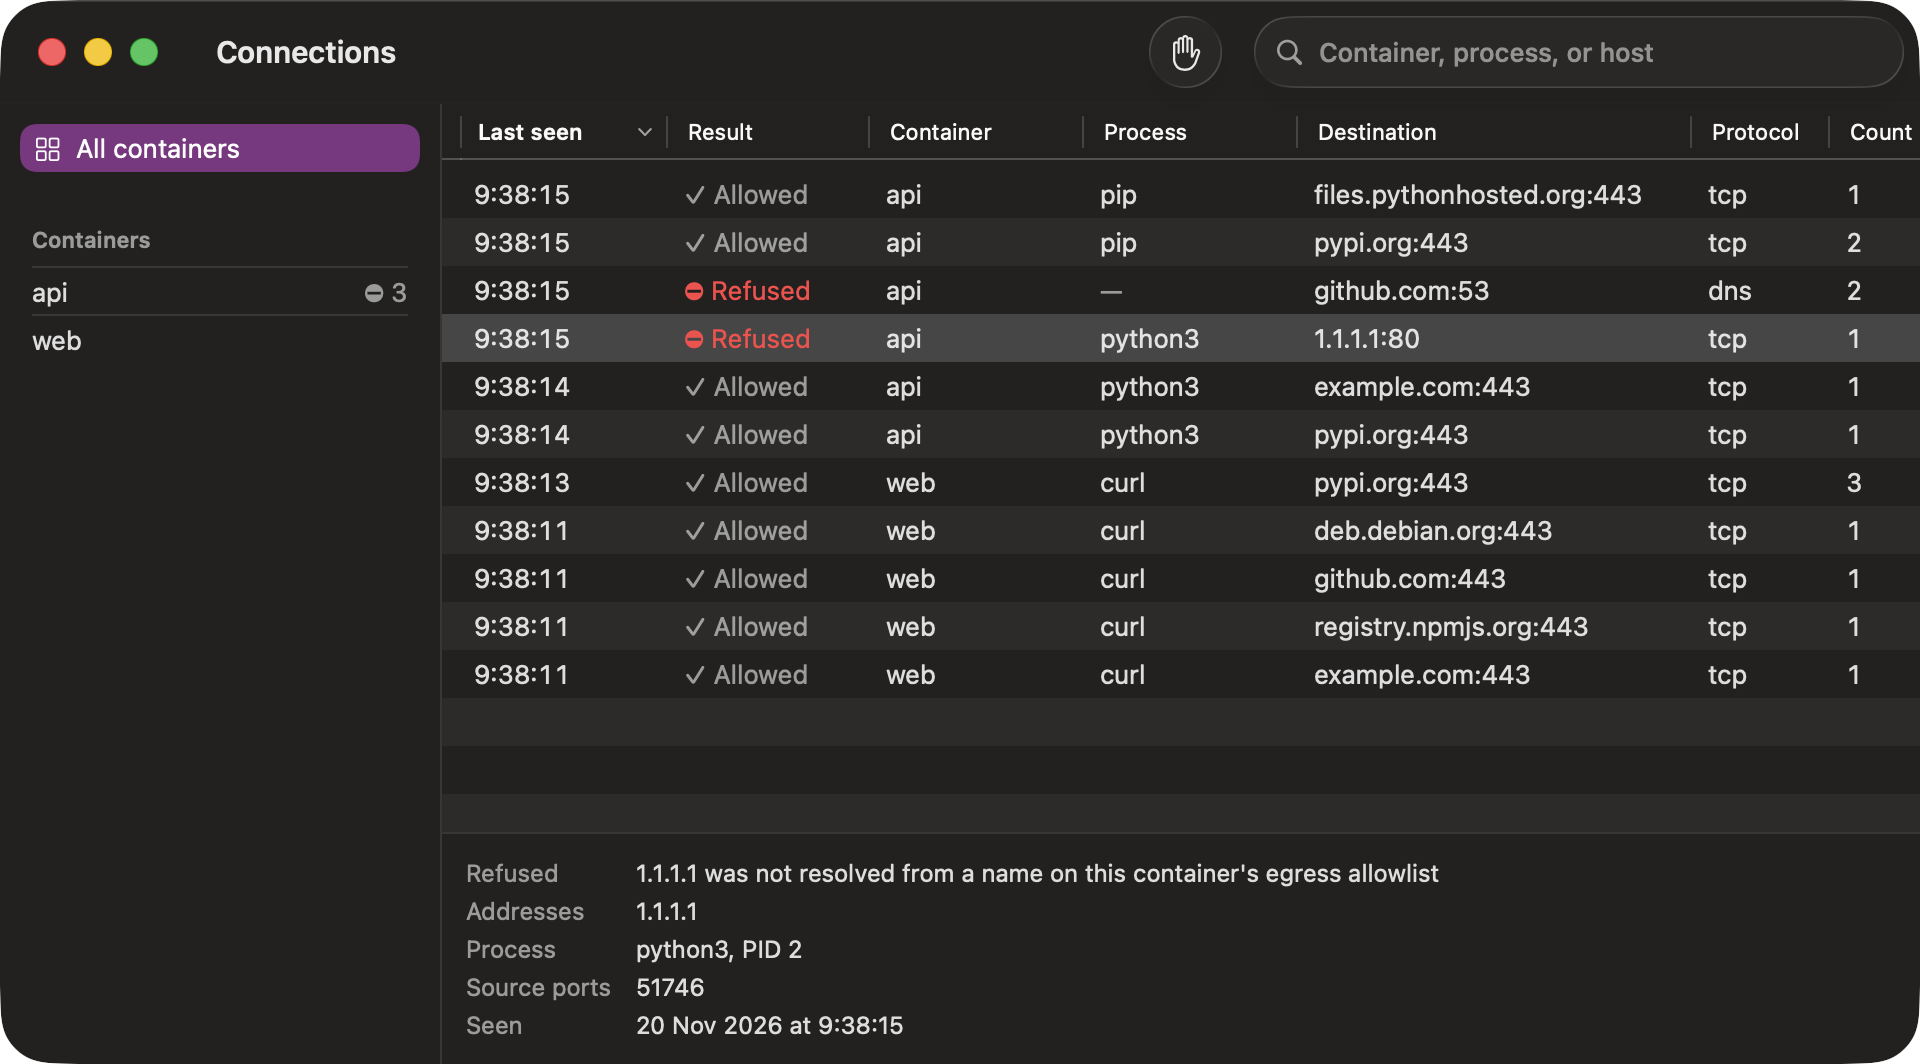
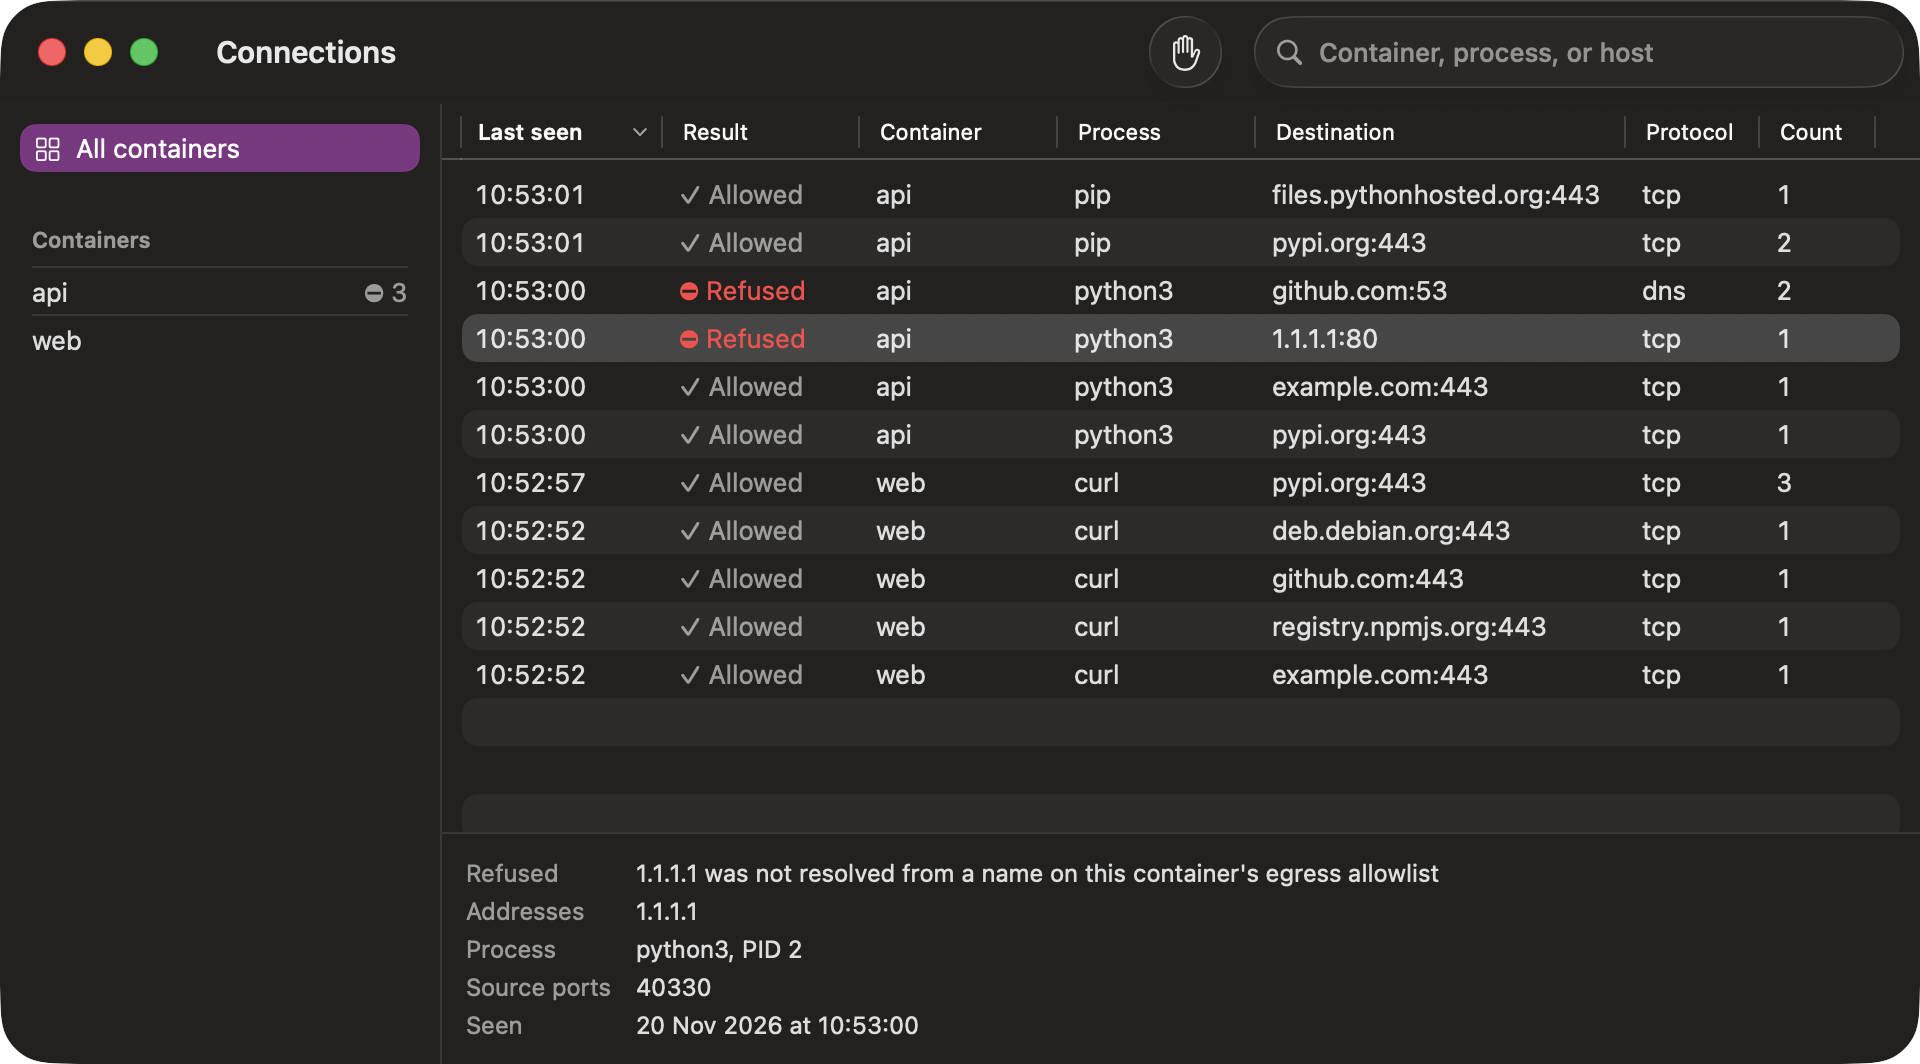
docs: installed throughput, connections with UDP processes on the site
Claude-Session: https://claude.ai/code/session_01GWEZ8e9k5t3ZLEPtFhvqLU

diff --git a/SPEC.md b/SPEC.md
@@ -308,7 +308,7 @@ Coverage:
 - D-53: Own init and boot trimming (2026-11-16). `vminitd` and `vmexec` are built by `scripts/build-init.sh` from the vendored apple/containerization 0.54.0 (`Vendor/containerization`, git subtree at baf212e) with Swift 6.3.3 (the latest of the line upstream builds with) and its static Linux SDK, pinned by digest and SHA-256, in a pratico VM; the image's tree matches upstream's (`/run`, `/var`, `/dev` are mount points on a read-only root: without them vminitd exits and the kernel panics). Reproducible: no build ID, and Swift's `.swift_modhash` section (per-module hashes that differ between builds of the same source, read only by debuggers and the backtracer; the binaries carry no debug info) is removed; two builds match and `vm/init/vminit.sha256` pins the manifest. The image is tagged by content (`dev.pratico/vminit:<version>-<digest>`, read by the daemon from the bundled layout), and the daemon rebuilds `initfs.ext4` when the reference differs from `initfs.ref`, renaming the new disk over the old so running VMs keep theirs; earlier init images are dropped from the store and the image list. Boot, profiled (`PRATICO_TRACE`, `initcall_debug`): the kernel moved to 1000 Hz (virtio's reset loops `msleep(1)` while Virtualization finishes each reset: two ticks, 8 ms per device, at 250 Hz) and dropped EFI and ACPI (unused under the Linux boot loader's device tree; EFI's x86-only weak symbols made GNU ld order two dynamic relocations differently from one link to the next): kernel to init 128 → 70 ms. The agent is polled every 2 ms (was 20), each vsock connect is bounded at 1 s and the wait at 10 s, so a guest that halts at boot fails the start (it hung it). `docker run -d` is about 70 ms shorter than 0.2.14. Not changed, measured: `quiet` (console output costs nothing), VM memory size, jitterentropy (7 ms; pulled in by the default crypto RNG). Next: vmexec is a second 87 MB static binary read cold on every start (about 30 ms, and it pushes vminitd past its 80 MiB `memory.high`); one multi-call binary would share vminitd's pages. User docs: `docs/vm.md#init`.
 - D-54: Seccomp (2026-11-17). Every container runs a seccomp filter, as on Docker: Docker's default profile (containerization's port, resolved for the container's bounding capabilities), none for `seccomp=unconfined` and `--privileged` (moby skips seccomp for privileged containers whatever was asked), or the profile the CLI sends (`seccomp=<json>`; a value that is not JSON is refused, since the CLI reads the file). Profiles in Docker's format have `includes`/`excludes` (caps against the bounding set, Go arch `arm64`, `minKernel` against the guest's 6.18, pinned in `RunOptions.guestKernel` and tied to `scripts/build-kernel.sh` by a test) resolved per container; the OCI format is decoded as is. No runc or libseccomp in the guest: `LinuxSeccomp.compileARM64()` (ContainerizationOCI, added) compiles to classic BPF: arch check (anything but `AUDIT_ARCH_AARCH64` kills the process; the kernel has no COMPAT), a balanced tree over call numbers (≈30 instructions per call for the default profile), each call's rules in profile order with 64-bit unsigned argument comparisons, every far jump a conditional plus `ja` so offsets never overflow; names arm64 lacks are skipped, as libseccomp does; notification, listeners, `WAIT_KILLABLE_RECV` and errno over 4095 are refused at create. `vmexec` installs it (`CZ_seccomp_set_filter`, a C shim, as musl has no wrapper) where runc does: before capabilities drop when no_new_privs is off (installing needs CAP_SYS_ADMIN then), else just before execve; `docker exec` loads the container's filter from the bundle (`--bundle-path`). Tested by a BPF interpreter against the profile read directly (every arm64 call, operators at word boundaries) and end to end (default on, `unshare` refused without CAP_SYS_ADMIN, unconfined and privileged unfiltered, custom profile on the container and its execs, gated rules, refusal at create). Existing containers get the default filter on their next start. User docs: `docs/run-options.md#seccomp`, `docs/tooling.md`.
 - D-55: Live limits (2026-11-18). `docker update` on a running container writes its cgroup in the guest (`/sys/fs/cgroup/container/<id>`) through the agent's file write, from the shim (`POST /limits`, `CgroupLimits`): the full set the guest holds (`cpu.max` and `memory.max` from the size as LinuxContainer writes them at create, RunOptions' cgroup files over them, and every other file RunOptions may set at cgroup v2's default, so `--pids-limit -1` lifts a limit) is compared with what the shim last wrote, and only changed files are written, in name order; a refused write restores the ones before it. Up to the vCPUs and memory the VM booted with (read from the shim's spec); more is refused with a 409 naming the size, as Virtualization.framework cannot grow a running VM. The shim checks pause state and writes limits under one lock, so a paused VM is refused rather than hung on. The daemon holds the container (`holding`, which `docker cp` on a stopped container now shares) while it merges, applies, and records the update: no start, restart, or second update interleaves, and a policy restart that meets a hold retries each second, up to 60 times. `whileStopped` also refuses a container that is starting (it checked only `running`). Shims of 0.2.16 and earlier answer 404 to `/limits`, refused with a 409 asking for a restart. `WriteFileFlags` got a public initializer (vendored change). User docs: `docs/run-options.md#docker-update`.
-- D-59: UDP in the flight recorder, the menubar mark (2026-11-20). A fourth probe on the `fib_table_lookup` raw tracepoint records each UDP destination a container process sends to: an IPv4 output route lookup (`flowi4_iif` the loopback index) for protocol 17, which `udp_sendmsg` and `connect` make in the sender's context before anything is queued; one record per process, destination, and source port (LRU of 4,096), loopback skipped, as `PRATICO_EVENT_UDP` (6), shown as `connect` with `Proto` udp and no `Connected`. Tried first on `net_dev_queue`: a fresh VM's first datagrams wait for ARP and leave from softirq, so their process was lost (`nslookup` missed); the route lookup has no such gap and runs per lookup, not per packet. Measured with one daemon, interleaved, 0.2.23's init against this one: download 88–94 and 83–92 MB/s, upload 47–51 and 46–48 MB/s, start alike: within noise. Joining (D-57) now keys on protocol too; a UDP record meets UDP and DNS flows, and a refused name at a pratico gateway is recorded with the gateway's address (was 0.0.0.0), so it meets its query. Probes `fc8b2680…`, init `49e037e2…`. ICMP has no process; IPv6 never leaves a VM. Recorder events stay out of Docker's `/events` (its types are Docker's); the activity endpoint, the Connections window and MCP serve them. Menubar (FR-29): pratico's mark as a template image, outlined when stopped, filled when running, the fourth tile a dot for a blocked image, a serious alert, or an unhealthy container; no count beside it (it widened the item and moved it on a crowded menubar) and no glyph change for findings that only inform. Alerts of containers that no longer exist are dropped at daemon start. User docs: `docs/vm.md#flight-recorder`, `README.md`.
+- D-59: UDP in the flight recorder, the menubar mark (2026-11-20). A fourth probe on the `fib_table_lookup` raw tracepoint records each UDP destination a container process sends to: an IPv4 output route lookup (`flowi4_iif` the loopback index) for protocol 17, which `udp_sendmsg` and `connect` make in the sender's context before anything is queued; one record per process, destination, and source port (LRU of 4,096), loopback skipped, as `PRATICO_EVENT_UDP` (6), shown as `connect` with `Proto` udp and no `Connected`. Tried first on `net_dev_queue`: a fresh VM's first datagrams wait for ARP and leave from softirq, so their process was lost (`nslookup` missed); the route lookup has no such gap and runs per lookup, not per packet. Measured with one daemon, interleaved, 0.2.23's init against this one: download 88–94 and 83–92 MB/s, upload 47–51 and 46–48 MB/s, start alike: within noise; installed through the app, 0.2.24 downloads at 118 MB/s and uploads at 52 (0.2.23: 109 and 51). Joining (D-57) now keys on protocol too; a UDP record meets UDP and DNS flows, and a refused name at a pratico gateway is recorded with the gateway's address (was 0.0.0.0), so it meets its query. Probes `fc8b2680…`, init `49e037e2…`. ICMP has no process; IPv6 never leaves a VM. Recorder events stay out of Docker's `/events` (its types are Docker's); the activity endpoint, the Connections window and MCP serve them. Menubar (FR-29): pratico's mark as a template image, outlined when stopped, filled when running, the fourth tile a dot for a blocked image, a serious alert, or an unhealthy container; no count beside it (it widened the item and moved it on a crowded menubar) and no glyph change for findings that only inform. Alerts of containers that no longer exist are dropped at daemon start. User docs: `docs/vm.md#flight-recorder`, `README.md`.
 - D-58: Connections window (2026-11-20). The menubar's Network Activity dialog (40 lines of text) is replaced by a Connections window, opened from the menu or from a container's submenu (focused on it). Containers on the left with their refused count; a sortable table of Last seen, Result, Container, Process, Destination (name, else address, with the port), Protocol, Count, newest first, where flows with the same container, process, destination, port, protocol and result fold into one row; search across container, process, host and address; Refused Only; the selected row's reason, addresses, PIDs, source ports, and first and last time. It polls `GET /pratico/egress` every 2 s while open (flows do not move the change counter). The daemon adds `Command` and `Pid` to each TCP flow there and in MCP's `egress` and `run`, from the recorder's connect with the same address, port and source port nearest in time (D-57's matching, the other way). Also: legacy alerts written without a key (before alerts had one) are merged by title at daemon start, newest kept; a Settings caption that repeated its toggle's title is hidden; the app has an icon (`scripts/app-icon.swift`, from the site's mark); a removed container's port and health alerts are resolved (`destroy`; not at stop, where a restart would notify again); Scanners and Threat Feeds are fetched each second until the daemon first answers, not a minute after launch. User docs: `docs/egress.md`.
 - D-57: Recorder joined with egress, for agents (2026-11-19). Egress flows carry the container's source port; `GET /pratico/containers/{id}/activity` adds `Name`, `Blocked` and `Reason` to each TCP connect from the switch's flow with the same address, port, and source port, nearest in time within 10 minutes (the switch records an allowed flow at its first bytes). A connect that never opened has source port 0 in the guest (the kernel clears it), so it is matched on address and port. The join is done at read time against the daemon's flows (the last 2,000 per container since it started); the guest's log is not rewritten, so after a daemon restart older connects have the guest's fields only. MCP: an `activity` tool (newest 500 by default, at most 10,000), and `run` returns the newest 500 events with its result. Found while testing `run`: a container that exits at once lost its events, as the shim dialled the recorder from a thread (the process could end first) and stopped the VM at exit, and vminitd's pump slept 250 ms while it had no reader. Now the shim dials during boot, before `/start`; at exit it waits for pid 1's exit record (at most 1 s), stops the VM, waits for the stream's end (at most 1 s), then writes `exit.json`, so an exit means a whole activity log; the pump wakes when a reader arrives (init `490a155d…`). `docker run --rm alpine true` measured 0.235 s median (0.246 s on 0.2.19). User docs: `docs/vm.md#flight-recorder`, `docs/agents.md`, `docs/egress.md`.
 - D-56: Flight recorder (2026-11-19). Each VM records every exec (path, argv, uid, PIDs as the container numbers them), every process exit (wait status), and each outgoing IPv4 TCP connection with the process that opened it (address, port, source port, established or failed), from three BPF programs on raw tracepoints (`sched_process_exec`, `sched_process_exit`, `inet_sock_set_state`: no kprobes, no tracefs, nothing added to the kernel config). Probes are restricted C in `vm/bpf`, built by `scripts/build-bpf.sh` (clang 19 and bpftool from the pinned Debian snapshot) against the shipped kernel's BTF, which the kernel build now exports; fields are read at fixed offsets (`BPF_NO_PRESERVE_ACCESS_INDEX`), helpers always inlined, maps declared as `struct pratico_map` globals, so a loader relocates only map loads. Reproducible; `vm/bpf/recorder.sha256` pins the object, which the init image carries at `/usr/lib/pratico/recorder.bpf.o`. vminitd loads it at boot with its own loader (`BPFObject`, `Recorder`: no libbpf, no CO-RE; the verifier's log is fetched only on refusal), about 1 ms. Tasks in the VM's own PID namespace (vminitd, vmexec before it enters the container, kernel threads) are skipped in the probes; SYN_SENT stores the connecting task by socket in an LRU map and the next state emits the record with the source port. Events wait in a 1 MiB ring buffer charged to vminitd's cgroup; what does not fit is dropped and counted, and the count (plus records lost when a reader goes away mid-batch) is sent as a record. vminitd serves the buffer on vsock 1028 to one reader at a time (a new one replaces the old; only the pump closes sockets, so a reused descriptor cannot misroute records); if loading failed, a reader gets one record with the reason. The shim reads it from boot, before the process starts, into `activity.jsonl` in the container's directory (8 MiB, then one rolled-over file), so events outlive the VM and go with the container; `GET /pratico/containers/{id}/activity[?limit=]` serves them. A privileged container (or one with CAP_SYS_ADMIN/CAP_BPF) can detach the probes in its own VM; others cannot use BPF (`unprivileged_bpf_disabled` 2). Later: the join with the switch's flows and MCP (D-57), the menubar (D-58), UDP (D-59). Found while building it: SwiftPM in the init build volume ignored new source files in a kept scratch directory (vm/init/build.sh now starts it over when the set of source files changes); `FileHandle.read(upToCount:)` on a socket waits for the whole count. User docs: `docs/vm.md#flight-recorder`, `docs/tooling.md`.
